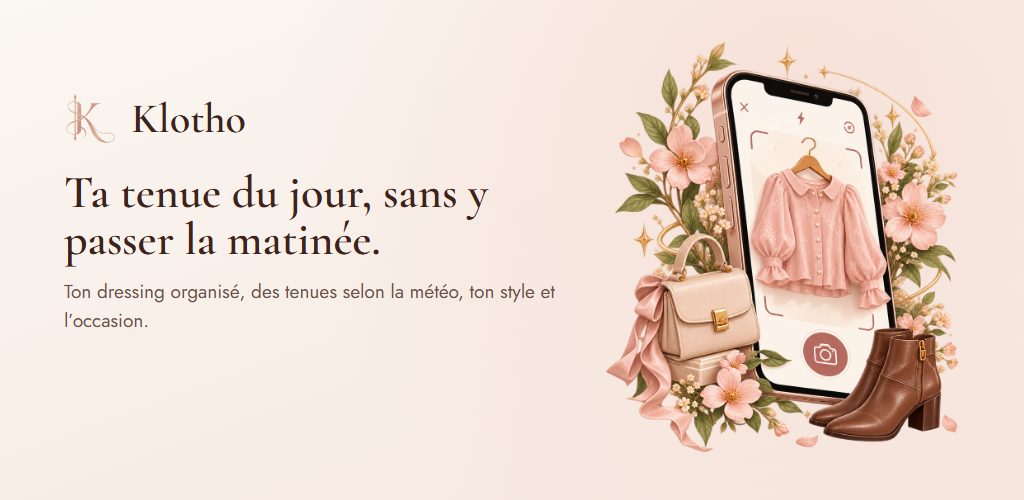
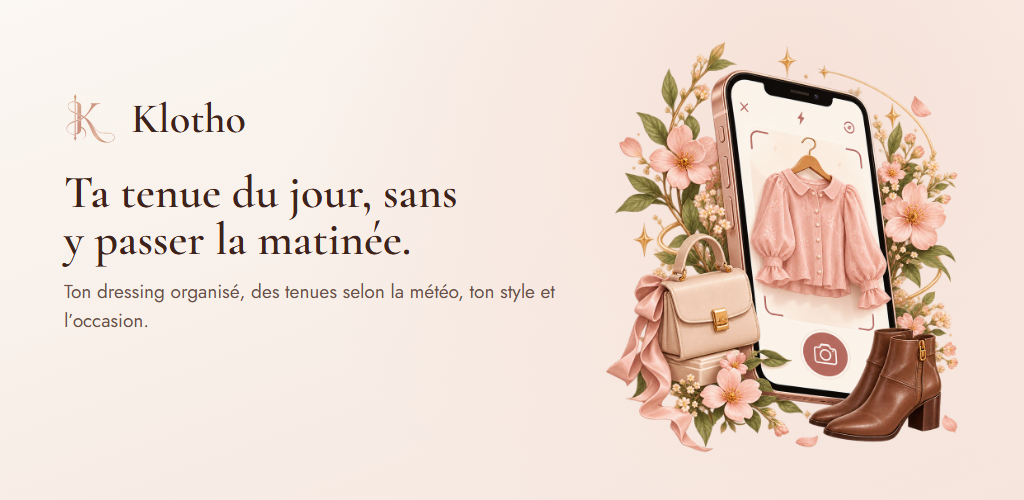
Captures d'écran Play Store depuis le compte de démo

Changed region(s): [[0.0625, 0.45, 0.4062, 0.54], [0.4375, 0.39, 0.4688, 0.42]]

diff --git a/marketing/build.py b/marketing/build.py
@@ -25,7 +25,8 @@ body {{ font-family: 'Jost', sans-serif; color: #6B5048;
 .brand {{ display: flex; align-items: center; gap: .35em; font-family: 'Cormorant';
   font-weight: 600; color: #3E231C; }}
 .brand img {{ height: 1.25em; }}
-h1 {{ font-family: 'Cormorant'; font-weight: 600; color: #3E231C; line-height: 1.04; }}
+h1 {{ font-family: 'Cormorant'; font-weight: 600; color: #3E231C; line-height: 1.04;
+  text-wrap: balance; }}
 .over {{ text-transform: uppercase; letter-spacing: .22em; color: #9C6658; font-weight: 500; }}
 .pill {{ display: inline-block; border-radius: 999px; background: #B07869; color: #FFF9F5;
   font-weight: 500; box-shadow: 0 10px 24px rgba(176, 120, 105, .3); }}
@@ -99,6 +100,30 @@ for key, (over, title) in HOOKS.items():
 <img class="art" src="{SRC}/hero.png" style="right:10px;top:500px;height:800px">
 <div style="position:absolute;left:0;right:0;bottom:60px;text-align:center">
   <p class="pill" style="font-size:30px;padding:20px 46px">{cta}</p>
+</div>
+""")
+
+
+# Play Store phone screenshots: 1080 x 1920, a sentence above the app screen
+# (captures of the demo account in marketing/src/screens).
+SCREENS = {
+    '1-accueil': 'Ta tenue du jour, selon la météo',
+    '2-garde-robe': 'Tout ton dressing, enfin rangé',
+    '3-piece': 'Chaque pièce, et son histoire',
+    '4-creer-tenue': 'Ton style, l’occasion, la météo',
+    '5-tenues': 'Des idées qui te ressemblent',
+    '6-calendrier': 'Ta semaine de tenues, planifiée',
+}
+for key, caption in SCREENS.items():
+    VISUALS[f'store/screens/{key}-1080x1920'] = (1080, 1920, f"""
+<div style="position:absolute;left:0;right:0;top:120px;text-align:center;padding:0 90px">
+  <p class="over" style="font-size:24px">Klotho</p>
+  <h1 style="font-size:84px;margin-top:22px">{caption}</h1>
+</div>
+<div style="position:absolute;left:50%;top:470px;width:780px;transform:translateX(-50%);
+  border:14px solid #3E231C;border-bottom:0;border-radius:72px 72px 0 0;overflow:hidden;
+  box-shadow:0 30px 60px rgba(62,35,28,.25);background:#FBF7F2">
+  <img src="{SRC}/screens/{key}.webp" style="display:block;width:100%">
 </div>
 """)
 

diff --git a/docs/fiche-play-store.md b/docs/fiche-play-store.md
@@ -155,16 +155,23 @@ formulaire, Google le fait évoluer.
 | -------------------------- | --------------------------- | ------------------------------------------------------ |
 | Icône                      | 512 × 512 px, PNG           | prête : `marketing/store/icon-512.png`                 |
 | Image de présentation      | 1024 × 500 px, JPG ou PNG   | prête : `marketing/store/feature-graphic-1024x500.png` |
-| Captures d'écran téléphone | 2 à 8, format portrait 9:16 | voir ci-dessous                                        |
+| Captures d'écran téléphone | 2 à 8, format portrait 9:16 | prêtes : `marketing/store/screens/` (voir ci-dessous)  |
 
-Captures proposées, chacune avec une phrase courte en haut :
+Six captures 1080 × 1920, chacune avec une phrase courte en haut, créées par
+`python marketing/build.py` (dans cet ordre sur la fiche) :
 
 1. Accueil avec la tenue du jour : « Ta tenue du jour, selon la météo »
 2. Ma garde-robe : « Tout ton dressing, enfin rangé »
-3. Ajouter une pièce avec Klotho IA : « Une photo, et la fiche se remplit »
+3. Détail d'une pièce : « Chaque pièce, et son histoire »
 4. Créer une tenue : « Ton style, l'occasion, la météo »
 5. Résultats des tenues : « Des idées qui te ressemblent »
 6. Calendrier : « Ta semaine de tenues, planifiée »
+
+Les écrans viennent du compte de démo (`npm run db:seed:demo -w @klotho/api`)
+dans l'émulateur Android, avec des photos de vêtements Unsplash (licence
+Unsplash : usage commercial autorisé, sans mention obligatoire). Ils sont en
+français : pour la fiche anglaise, refaire les captures avec le téléphone en
+anglais.
 
 ## Avant d'envoyer en production
 

diff --git a/marketing/README.md b/marketing/README.md
@@ -21,6 +21,8 @@ Deux accroches (`a` : « Ta tenue du jour… », `b` : « Rien à te mettre ? »
 deux boutons (`bientot`, `disponible` une fois l'app publiée). Les textes
 sont dans `HOOKS`, `CTAS` et `SUB` en haut de `build.py`.
 
-Le dossier `ads/` n'est pas versionné : relance le script pour le recréer.
+Les dossiers `ads/` et `store/screens/` ne sont pas versionnés : relance le
+script pour les recréer. Les écrans de l'app sont dans `src/screens/`
+(captures du compte de démo dans l'émulateur, barre d'état retirée).
 Dans les stories, les textes restent hors des 250 px du haut et du bas,
 masqués par l'interface d'Instagram et de TikTok.
